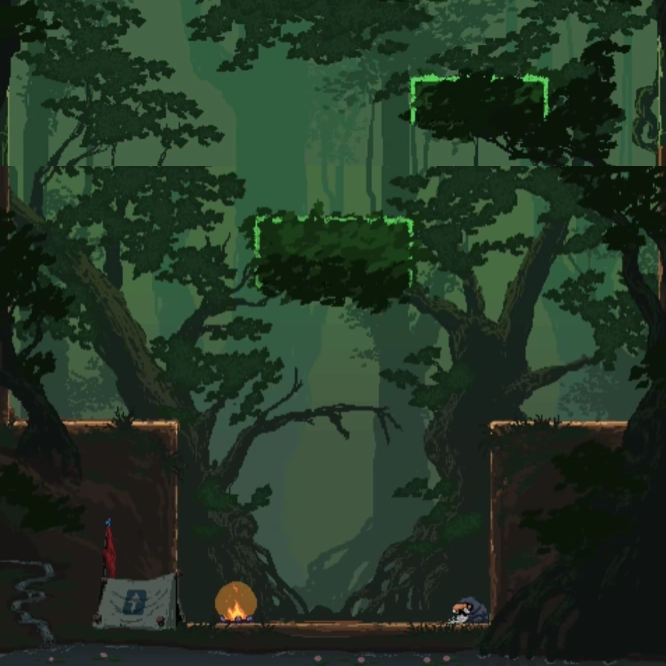
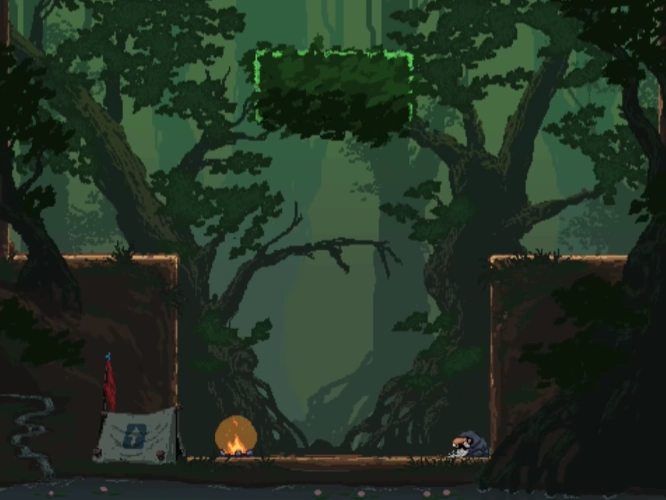
fix background , 666 x 500

diff --git a/2D/Drop King/js/scenes/IntroScene.js b/2D/Drop King/js/scenes/IntroScene.js
@@ -6,15 +6,15 @@ export default class IntroScene extends Phaser.Scene {
 
     create() {
         //충돌 영역이 있는 배경 생성하기
-        this.add.image(80, -25, 'IntroBackground').setOrigin(0, 0);
+        this.add.image(0, 0, 'IntroBackground').setOrigin(0, 0);
 
         this.physics.world.gravity.y = 5;
 
         // 플레이어가 하늘에서 떨어지는 것처럼 보이게 하기 위해서 10으로 설정   
-        this.controller = new PlayerController(this, 400, 10);
+        this.controller = new PlayerController(this, 333, 10);
         this.controller.player.flipX = true;
 
-        const title = this.add.image(400, 200, 'title')
+        const title = this.add.image(333, 250, 'title')
             .setOrigin(0.5)
             .setScale(0.4)
             .setAlpha(0); // 투명

diff --git a/2D/Drop King/js/scenes/StartScene.js b/2D/Drop King/js/scenes/StartScene.js
@@ -7,7 +7,7 @@ export default class StartScene extends Phaser.Scene {
     create() {
         //충돌 영역이 있는 배경 생성하기
         const map = this.make.tilemap({ key: 'map' });
-        this.add.image(80, -25, 'StartBackground').setOrigin(0, 0);
+        this.add.image(0, 0, 'StartBackground').setOrigin(0, 0);
 
         this.ground = this.physics.add.staticGroup();
 
@@ -16,7 +16,7 @@ export default class StartScene extends Phaser.Scene {
         if (groundLayer && groundLayer.objects) {
             groundLayer.objects.forEach(obj => {
                 const rect = this.add.rectangle(
-                    obj.x + 80 + obj.width / 2,
+                    obj.x + obj.width / 2,
                     obj.y + obj.height / 2,
                     obj.width,
                     obj.height,

diff --git a/2D/Drop King/js/scenes/PreloadScene.js b/2D/Drop King/js/scenes/PreloadScene.js
@@ -11,6 +11,8 @@ export default class PreloadScene extends Phaser.Scene {
         this.load.image('title', 'assets/title.png');
         for (let i = 1; i <= 7; i++) {
             this.load.image(`platform${i}`, `assets/platforms/platform${i}.png`);
+        }for (let i = 1; i <= 9; i++) {
+            this.load.image(`background0${i}`, `assets/Scene/background/background0${i}.webp`);
         }
 
         this.load.spritesheet('player', 'assets/player.png', {
@@ -21,5 +23,6 @@ export default class PreloadScene extends Phaser.Scene {
 
     create() {
         this.scene.start('StartScene');
+        // this.scene.start('MainScene');
     }
 }

diff --git a/2D/Drop King/style.css b/2D/Drop King/style.css
@@ -1,16 +1,18 @@
-body{
+body {
     margin: 0;
     padding: 0;
     overflow: hidden;
     background-color: black;
 }
-#game-container{
+
+#game-container {
     width: 100vw;
     height: 100vh;
     display: flex;
     justify-content: center;
     align-items: center;
 }
-canvas{ /* Phaser가 생성하는 캔버스에 적용될 스타일 (선택 사항이지만 권장) */
-    display: block; /* 캔버스 하단에 생기는 알 수 없는 여백을 제거 */
+
+canvas {
+    display: block;
 }

diff --git a/2D/Drop King/js/game.js b/2D/Drop King/js/game.js
@@ -6,8 +6,8 @@ import GameOverScene from './scenes/GameOverScene.js'
 
 const config = { //config는 인스턴스 초기화 역할
     type: Phaser.AUTO, //랜더링 방식
-    width: 800,
-    height: 600,
+    width: 666,
+    height: 500,
     parent: 'game-container',
     pixelArt: true,
     scale: {

diff --git a/2D/Drop King/js/scenes/MainScene.js b/2D/Drop King/js/scenes/MainScene.js
@@ -6,7 +6,7 @@ export default class MainScene extends Phaser.Scene {
     }
 
     create() {
-        this.add.image(80, -25, 'MainBackground').setOrigin(0, 0);
+        this.add.image(80, -25, 'background01').setOrigin(0, 0);
 
         // 점수 초기화
         this.score = 0;

diff --git a/2D/CUTIMAGE.PY b/2D/CUTIMAGE.PY
@@ -1,0 +1,21 @@
+from PIL import Image
+
+# 원본 이미지 열기
+source_image = Image.open("background01.png")
+
+# 잘라낼 크기 (4:3 비율 = 310x232)
+slice_width = 310
+slice_height = 232
+
+# 이미지 전체 높이에서 자를 수 있는 영역 계산
+image_width, image_height = source_image.size
+num_slices = image_height // slice_height
+
+# 슬라이스 반복
+for i in range(num_slices):
+    top = i * slice_height
+    box = (0, top, slice_width, top + slice_height)
+    cropped = source_image.crop(box)
+    cropped.save(f"background{i + 1}.png")
+
+print(f"{num_slices}개 이미지로 잘라 저장 완료!")
